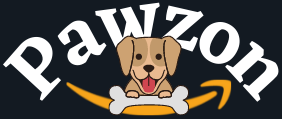
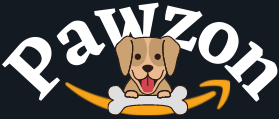
Checkout page

diff --git a/frontend/components/app.jsx b/frontend/components/app.jsx
@@ -10,6 +10,7 @@ import ProductIndexContainer from "./product/product_index_container";
 import Footer from "./footer/footer";
 import ReviewFormContainer from "./reviews/review_form_container";
 import CartItemIndexContainer from "./cart_items/cart_item_index_container";
+import Checkout from "./cart_items/checkout"
 
 const App = () => (
   <div className="page">
@@ -21,7 +22,8 @@ const App = () => (
       <Route exact path="/products/:productId" component={ProductShowContainer} />
       <Route exact path="/products/:productId/reviews/new" component={ReviewFormContainer} />
       <Route exact path="/cart" component={CartItemIndexContainer}/>
-      <Route path="/" component={Homepage} />
+      <ProtectedRoute exact path="/checkout" component={Checkout}/>
+      <ProtectedRoute path="/" component={Homepage}/>
     </Switch>
     <Footer />
   </div>

diff --git a/app/assets/stylesheets/page/page.scss b/app/assets/stylesheets/page/page.scss
@@ -31,7 +31,7 @@ body {
 .login-img,
 .signup-img {
   height: 100px;
-  width: 200px;
+  width: 220px;
   padding-bottom: 20px;
 }
 
@@ -425,7 +425,6 @@ body {
   }
 
   .product-container {
-    background-color: #f2f2f2;
     height: 100%;
     padding-top: 30px;
     padding-bottom: 200px;
@@ -1156,4 +1155,28 @@ body {
   border: 0px;
   border-radius: 8px;
   padding: 5px;
+}
+
+.checkout-container {
+  width: 100%;
+  height: 50vh;
+  margin-top: 20px;
+  display: flex;
+  justify-content: center;
+}
+
+.checkout-box {
+  width: 750px;
+  height: fit-content;
+  border: 2px solid #008040;
+  box-shadow: 0px 1px 2px grey;
+  border-radius: 5px;
+  padding: 20px;
+}
+
+.checkout-header {
+  color:#008040;
+  font-size: 26px;
+  font-weight: bold;
+  padding-bottom: 10px;
 }

diff --git a/frontend/components/cart_items/cart_item_index.jsx b/frontend/components/cart_items/cart_item_index.jsx
@@ -5,7 +5,6 @@ import { Link } from "react-router-dom";
 class CartItemIndex extends React.Component {
   constructor(props) {
     super(props);
-    this.state = { checkout: "" };
     this.handleCheckout = this.handleCheckout.bind(this);
   }
 
@@ -18,7 +17,7 @@ class CartItemIndex extends React.Component {
     this.props.cartItems.forEach(cartItem => {
       this.props.deleteCartItem(cartItem)
     });
-    this.setState({ checkout: <div className="checkout-msg">Thank you for your order.</div>})
+    this.props.history.push("/checkout");
   }
 
   

diff --git a/frontend/components/session_form/signup.jsx b/frontend/components/session_form/signup.jsx
@@ -38,7 +38,7 @@ class Signup extends React.Component {
   render() {
     return (
       <div className="signup">
-        <div className="signup-logo"><img className="signup-img" src="/images/pawzon-login.png" /></div>
+        <div className="signup-logo"><img className="signup-img" src="/images/pawzon-white.png" /></div>
         <div className="signup-form">
           <div className="signup-title">Create Account!</div>
           <form onSubmit={this.handleSubmit}>

diff --git a/frontend/components/session_form/login.jsx b/frontend/components/session_form/login.jsx
@@ -47,7 +47,7 @@ class Login extends React.Component {
   render() {
     return (
       <div className="session-form">
-        <div className="login-logo"><img className="login-img" src="/images/pawzon-login.png"/></div>
+        <div className="login-logo"><img className="login-img" src="/images/pawzon-white.png"/></div>
         <div className="login-form">
           <div className="login-title">Log In!</div>
           <form onSubmit={this.handleSubmit}>

diff --git a/frontend/components/cart_items/checkout.jsx b/frontend/components/cart_items/checkout.jsx
@@ -1,0 +1,18 @@
+import React from "react";
+
+class Checkout extends React.Component {
+  render() {
+    return(
+      <div className="checkout-container">
+        <div className="checkout-box">
+          <div className="checkout-header">
+            Thank you, your order has been placed.
+          </div>
+          <div className="checkout-sub">Thank you for using Pawzon.com</div>
+        </div>
+      </div>
+    )
+  }
+}
+
+export default Checkout;
